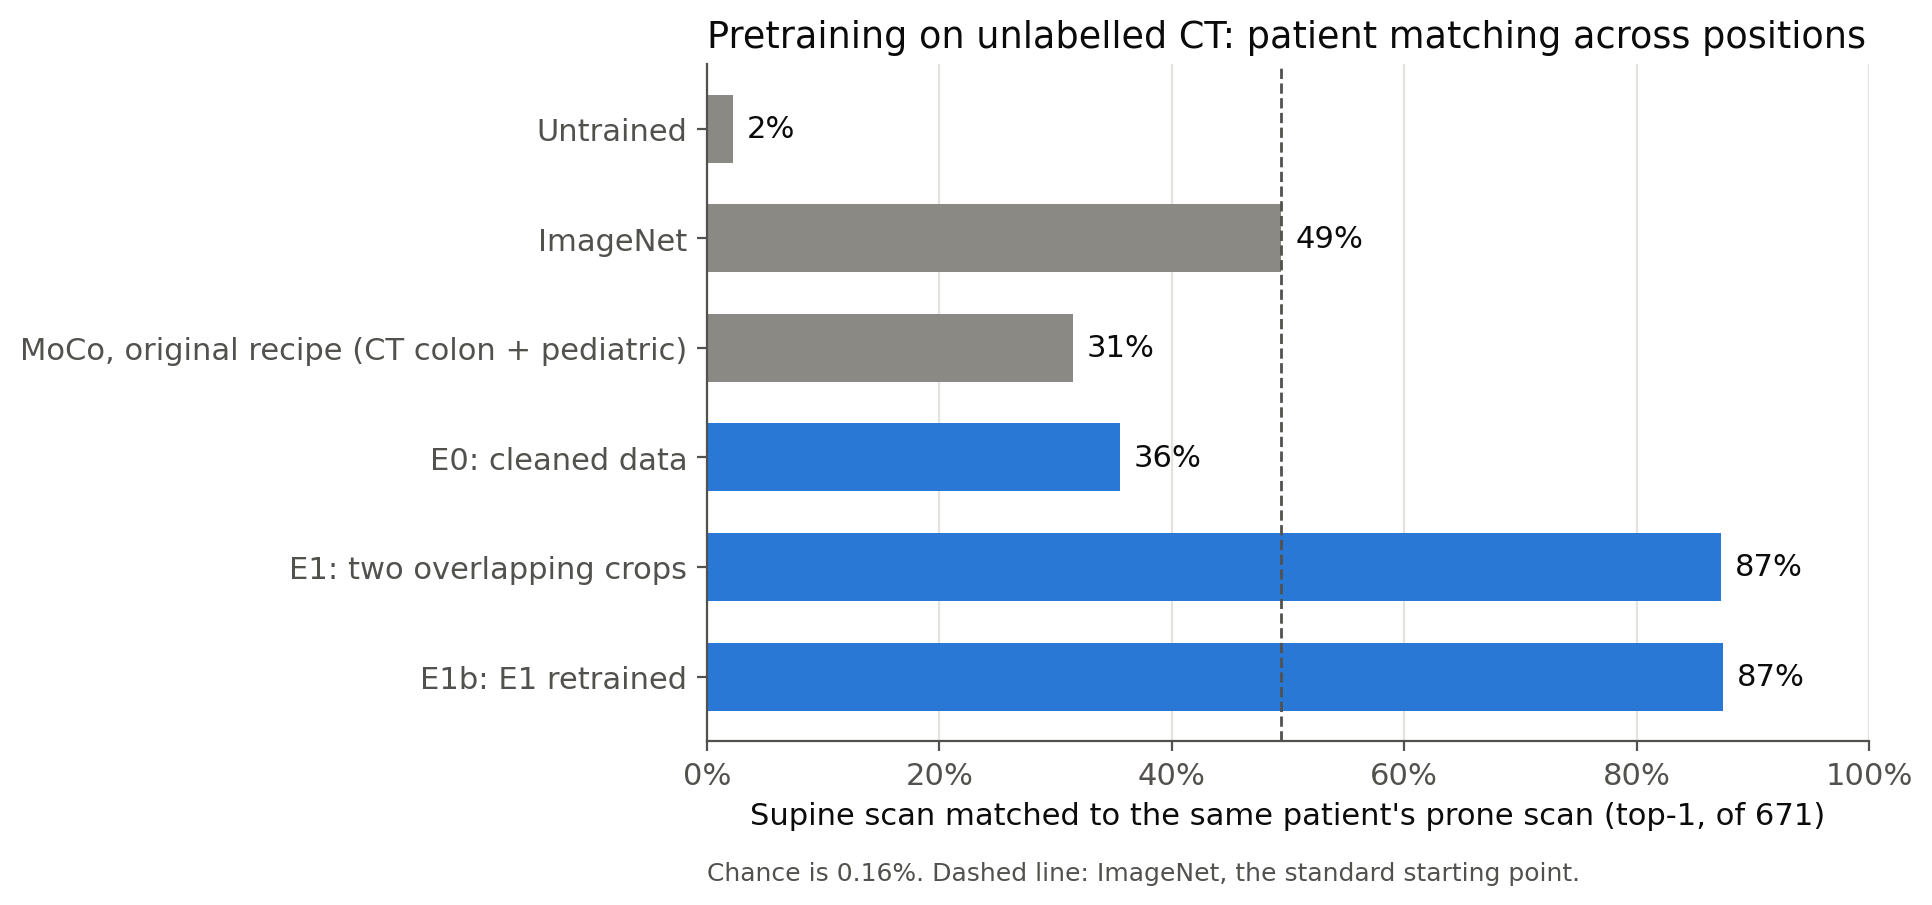
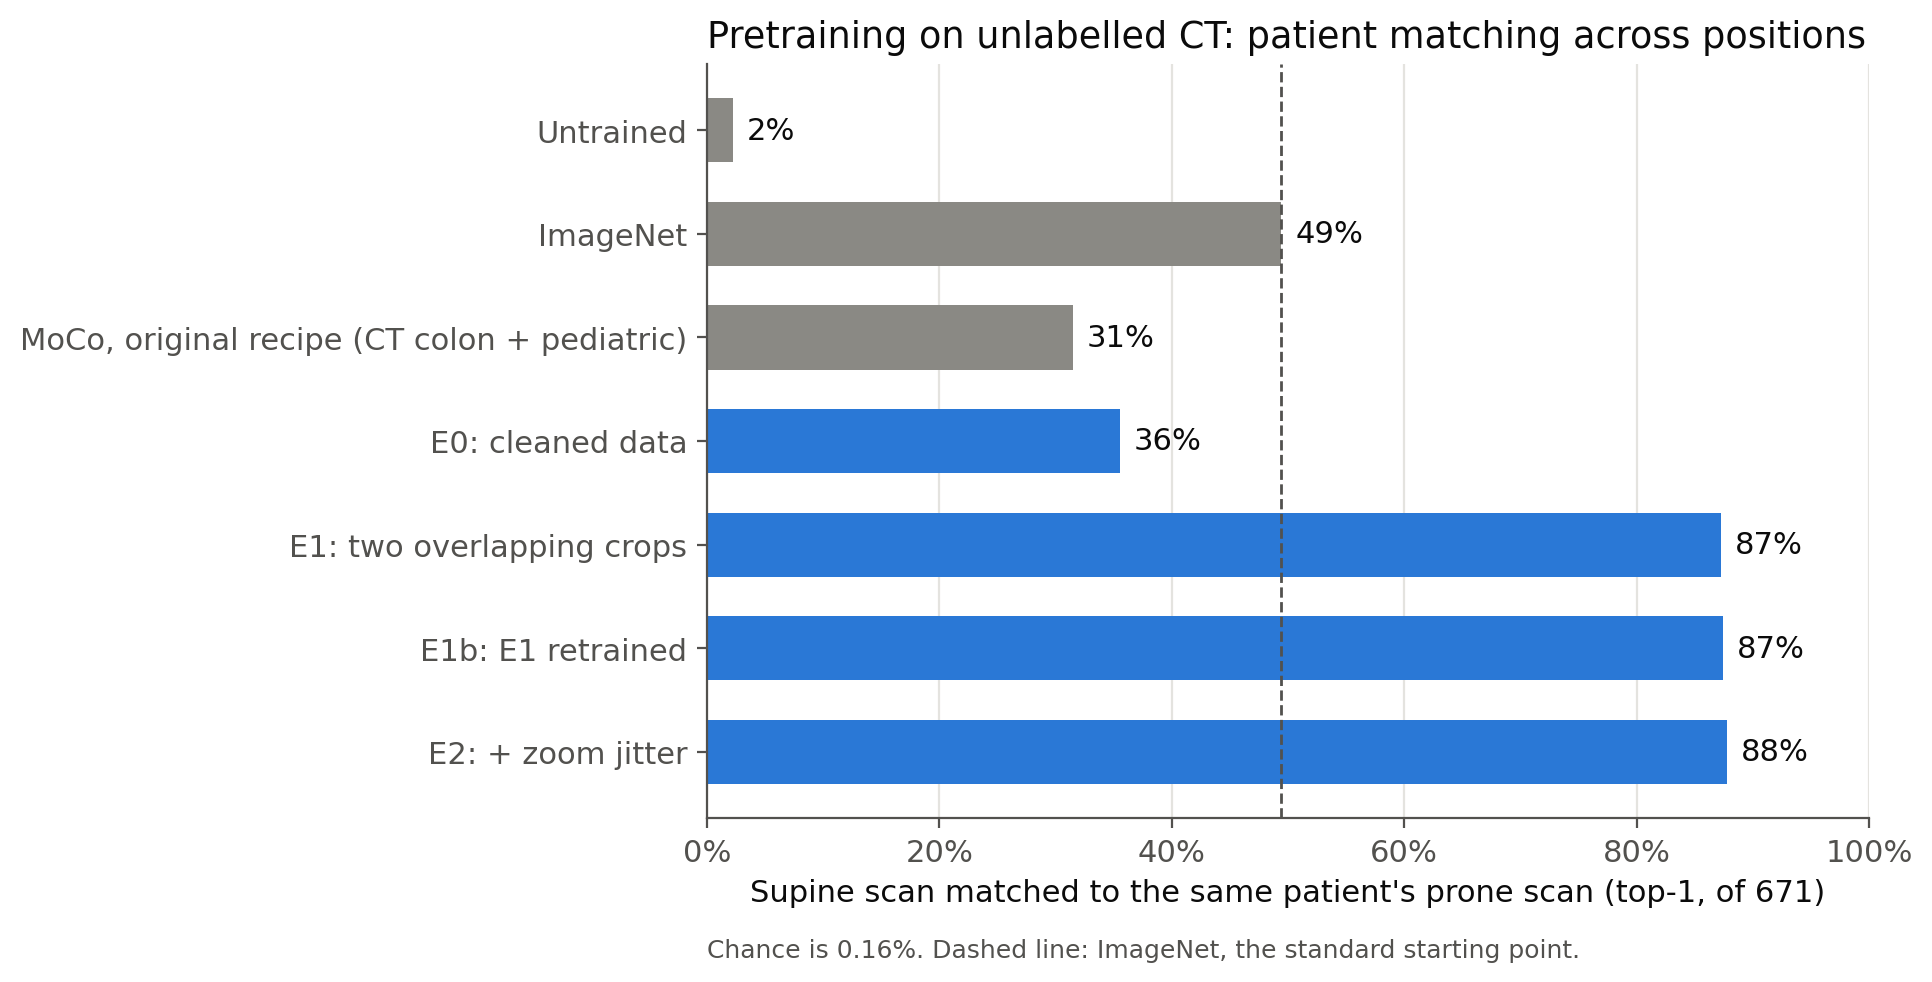
docs: record E2 result (prediction held); resume_moco.sh reads recipe from checkpoint
E2 (scale jitter) scored 2026-09-25 but was never recorded: any_series
0.575 (+0.131 over E1/E1b), cross-position 0.878, so E3 builds on E2.
Ledger rows added and checked with check_ledger.py; progress.png redrawn.

resume_moco.sh only continued the legacy base checkpoint and passed no
recipe flags, so a resumed E1+ run would silently revert to the E0
recipe. It now resumes RUN in place, stages data, and takes the recipe
from the args saved in the checkpoint.

diff --git a/docs/experiments.md b/docs/experiments.md
@@ -543,6 +543,56 @@ checkpoint:
   - *No detectable effect:* anything else. E3 builds on E1 (the simpler
     recipe), and E2 is recorded as a null, not a failure of the idea.
 
+### E2 — result (trained 2026-09-25, recorded 2026-10-05, job 63947298)
+
+Commit `e4d5852`, empty diff, `job.txt` records `CROP_OVERLAP=0.3 0.7
+CROP_SCALE=160 320`. Ran on sg007, 10:27 to 16:09 (5 h 42 m; ~2 min/epoch,
+the per-view resize costs a little over E1's 1.6). Scored at epochs 20 and 200
+by jobs 63947299 / 63947300 (`afterok`), acquisition probe by 63948828. The
+result sat unrecorded from 2026-09-25 until 2026-10-05; nothing was re-run.
+
+| Run | cross_pos top1 | vs ImageNet | any_series top1 | RankMe | align cos | zpos MAE | polyp bal-acc |
+|---|---|---|---|---|---|---|---|
+| E2:moco:checkpoint_0019.pth.tar | 0.057 | 0.12x | 0.056 | 762.1 | 0.9795 | 0.1878 | 0.329 |
+| E2:moco:checkpoint_0199.pth.tar | 0.878 | 1.78x | 0.575 | 423.6 | 0.9952 | 0.0788 | 0.362 |
+
+Pretext Acc@1 at epoch index 19, 49, 99, 199: 9.27, 3.53, 52.7, 80.6
+(E1: 2.98, 37.8, 78.6, 88.3). Final loss 1.35 (E1 0.83, E1b 0.98): the task
+is harder, as scale jitter should make it. Acc@1 *fell* between epochs 20 and
+50 while loss kept falling (8.77 to 7.15), so the epoch-50 saturation gate
+(95%) was nowhere near firing.
+
+**Verdict: prediction held, on the pre-registered rule.** `any_series` 0.575
+>= 0.50 and cross-position 0.878 >= 0.83. E3 builds on E2's recipe.
+
+| metric | E1/E1b mean | E2 | diff |
+|---|---|---|---|
+| cross_position top1 | 0.874 | 0.878 | +0.004 |
+| any_series top1 | 0.444 | 0.575 | **+0.131** |
+| any_series top5 | — | 0.834 | |
+| knn_zpos MAE | 0.0946 | 0.0788 | -0.016 (better) |
+| knn_polyp bal-acc | 0.395 | 0.362 | -0.033 |
+| knn_prep bal-acc | 0.489 | 0.476 | -0.013 |
+| knn_contrast bal-acc | 0.519 | 0.574 | +0.055 |
+| acquisition look-alike top1 | 0.970 | 0.972 | +0.002 |
+
+- **The gain is where it was predicted, and only there.** `any_series` rose
+  0.131, about three times E1/E1b's retrain gap (0.039) and ~11 sampling SEs
+  (SE 0.012 at n=1738). Cross-position is flat: it was already near ceiling
+  for this bank, and E2 was predicted to move `any_series`, not it.
+- **Depth regression improved again** (0.079, best so far, against random
+  init's 0.104).
+- **`knn_polyp` fell 0.033**, within ~1.5x the 0.02 retrain move. Read as noise;
+  the metric was already shown unable to rank encoders.
+- **`knn_contrast` rose 0.055**, about twice its retrain move (0.025). It is a
+  confounder probe, so higher is the wrong direction: E2 separates tagged from
+  untagged scans a little more. One run, so not yet a finding; E3 (whose
+  prediction is about the contrast subset) is the place to watch it.
+- **Epoch 20 cannot rank recipes**, as E1b already showed: E2's 0.057 there is
+  the latest take-off yet and ends best.
+- **Acquisition probe:** look-alike top-1 0.972, identical to E1. The
+  `any_series` gain is not bought with more scanner/body matching.
+
 ### E3 — HU window jitter
 
 - **Diff vs:** E2. Jitter window centre and width (about +/-30 HU) per view.
@@ -716,6 +766,7 @@ full-gallery top-1 reproduces its ledger value exactly (ImageNet 0.4943, E1
 | E0 | 0.356 | 0.682 | 32% |
 | E1 | 0.873 | **0.972** | 3% |
 | E1b | 0.874 | **0.967** | 3% |
+| E2 (job 63948828, added 2026-10-05) | 0.878 | **0.972** | 3% |
 
 Chance on the look-alike gallery is 0.050.
 

diff --git a/docs/research_notes.md b/docs/research_notes.md
@@ -298,10 +298,16 @@ it; the one-time `mkdir` of the logs dir moved into README "Reproducing the data
   `RUN=e3 SAVE_FREQ=10 CROP_OVERLAP="0.3 0.7" WINDOW_JITTER=30`, plus
   `CROP_SCALE="160 320"` only if E2's prediction held. Queue both scoring
   jobs `afterok`, as for E2.
-- **Known gap, not fixed:** `jobs/resume_moco.sh` passes neither
-  `--crop-overlap` nor `--crop-scale`, so resuming an E1+ run would silently
-  continue on the E0 recipe. Only matters if a run has to be resumed; fix
-  before using it.
+- **`resume_moco.sh` fixed (2026-10-05).** It used to resume only the legacy
+  `base` checkpoint into a collection dir and passed no recipe flags, so an
+  E1+ run would have silently continued on the E0 recipe. Now
+  `RUN=<run>` resumes that run's newest checkpoint (or `CKPT=`) in place,
+  stages data like `train_moco.sh`, and reads the recipe (overlap, z shift,
+  scale, window jitter, queue size, save frequency) from the `args` the
+  checkpoint saved; checkpoints without `args` (pre-2026-09-16) are refused.
+  Each leg writes `git_*.resume_<jobid>.*` and `job.resume_<jobid>.txt` beside
+  the run's own provenance files. Dry-run on E0/E1/E2 recovered each recipe
+  exactly; not yet exercised on a real resume.
 - **Phase 3 design** (the polyp claim, label-efficiency curves, where the linear
   probe comes in) is written up in `experiments.md`.
 

diff --git a/README.md b/README.md
@@ -69,7 +69,8 @@ directory records the commit, diff and recipe it ran with.
 
 Other jobs: `acquisition_probe.sh` (is retrieval matching scanner/body?),
 `figures.sh` (plain-language figures into `docs/figures/`), `run_lincls.sh`
-(linear probe), `resume_moco.sh`, `refresh_scratch.sh` (avoid the 90-day
+(linear probe), `resume_moco.sh` (continue a run, recipe read from its
+checkpoint), `refresh_scratch.sh` (avoid the 90-day
 `/scratch` purge).
 
 ## Where things are
